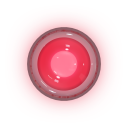
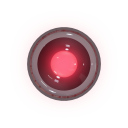
TRENCH: SLAM lamp dimmer, clear of the INPUT label, glows faintly on hover and sinks when pressed
Claude-Session: https://claude.ai/code/session_019YvkdrZnh3SHosaaXF51jh

Changed region(s): [[0.1562, 0.1562, 0.8438, 0.8438]]

diff --git a/plugin/source/ui/SlamButton.h b/plugin/source/ui/SlamButton.h
@@ -23,8 +23,11 @@ public:
         lampOn = juce::ImageCache::getFromMemory (BinaryData::trench_slam_lamp_on_png, BinaryData::trench_slam_lamp_on_pngSize);
     }
     bool isOn() const noexcept { return param != nullptr && param->getValue() > 0.5f; }
+    void mouseDown (const juce::MouseEvent&) override { pressed = true; repaint(); }
     void mouseUp (const juce::MouseEvent& e) override
     {
+        pressed = false;
+        repaint();
         if (param == nullptr || attachment == nullptr || ! getLocalBounds().contains (e.position.toInt()))
             return;
         if (e.mods.isPopupMenu())
@@ -38,16 +41,23 @@ public:
     void mouseExit (const juce::MouseEvent&) override { repaint(); }
     void paint (juce::Graphics& g) override
     {
-        const auto& lamp = isOn() ? lampOn : lampOff;
-        if (! lamp.isValid())
+        if (! lampOff.isValid() || ! lampOn.isValid())
             return;
+        auto area = getLocalBounds().toFloat();
+        if (pressed)
+            area = area.withSizeKeepingCentre (area.getWidth() * 0.94f, area.getHeight() * 0.94f).translated (0.0f, 0.6f);
         g.setImageResamplingQuality (juce::Graphics::highResamplingQuality);
-        g.setOpacity (isMouseOver() && ! isOn() ? 0.88f : 1.0f);
-        g.drawImage (lamp, getLocalBounds().toFloat(), juce::RectanglePlacement::centred);
+        g.drawImage (isOn() ? lampOn : lampOff, area, juce::RectanglePlacement::centred);
+        if (! isOn() && isMouseOver())
+        {
+            g.setOpacity (0.35f);
+            g.drawImage (lampOn, area, juce::RectanglePlacement::centred);
+        }
     }
 private:
     Theme t;
     juce::Image lampOff, lampOn;
+    bool pressed = false;
     juce::RangedAudioParameter* param = nullptr;
     std::unique_ptr<juce::ParameterAttachment> attachment;
     JUCE_DECLARE_NON_COPYABLE_WITH_LEAK_DETECTOR (SlamButton)

diff --git a/plugin/source/UiLayout.h b/plugin/source/UiLayout.h
@@ -51,8 +51,8 @@ public:
         layout.elements["outputKnob"]   = { { 490.0f, 1165.0f, 180.0f, 180.0f }, {}, {} };
         layout.elements["inputReadout"] = { { 242.8f, 1307.0f, 174.4f, 61.2f },  15.5f, juce::Colour (0xff4a3520) };
         layout.elements["outputReadout"] = { { 492.8f, 1307.0f, 174.4f, 61.2f },  15.5f, juce::Colour (0xff4a3520) };
-        layout.elements["slamButton"]   = { { 100.0f, 1165.0f, 130.0f, 130.0f }, {}, {} };
-        layout.elements["slamLabel"]    = { { 35.0f, 1120.0f, 260.0f, 48.0f },  13.9f, juce::Colour (0xff2a2722) };
+        layout.elements["slamButton"]   = { { 85.0f, 1165.0f, 130.0f, 130.0f }, {}, {} };
+        layout.elements["slamLabel"]    = { { 20.0f, 1120.0f, 260.0f, 48.0f },  13.9f, juce::Colour (0xff2a2722) };
         layout.elements["slamLabel"].text = "SLAM";
 
         layout.elements["brandLabel"]   = { { 128.7f, 65.1f, 304.2f, 55.2f }, 17.5f, juce::Colour (0xff0f0c09) };
